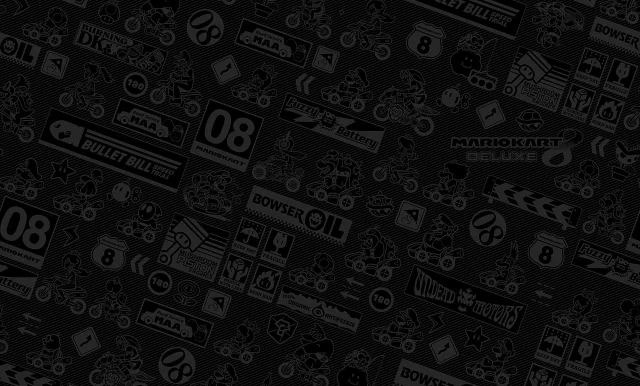
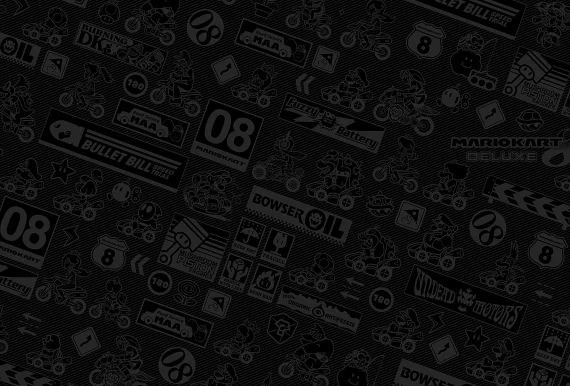
new size image and opacity rectangle

diff --git a/lounge.py b/lounge.py
@@ -928,8 +928,8 @@ async def table(
         # https://imagemagick.org/script/color.php
         pango_string = f'pango:<tt>{mmr_table_string}</tt>'
         mmr_filename = f'{hex(ctx.author.id)}mmr.jpg'
-        correct = subprocess.run(['convert', '-background', 'gray21', '-fill', 'white', pango_string, mmr_filename], check=True, text=True)
-        # correct = subprocess.run(['convert', '-background', 'None', '-fill', 'white', pango_string, 'mkbg.png', '+swap', '-compose', 'Over', '-composite', '-quality', '100', mmr_filename], check=True, text=True)
+        # correct = subprocess.run(['convert', '-background', 'gray21', '-fill', 'white', pango_string, mmr_filename], check=True, text=True)
+        correct = subprocess.run(['convert', '-background', 'None', '-fill', '#00000050', '-draw', 'rectangle 5,5 565,363', '-fill', 'white', pango_string, 'mkbg.png', '+swap', '-compose', 'Over', '-composite', '-quality', '100', mmr_filename], check=True, text=True)
         f=discord.File(mmr_filename, filename='mmr.jpg')
 
         # Create embed
